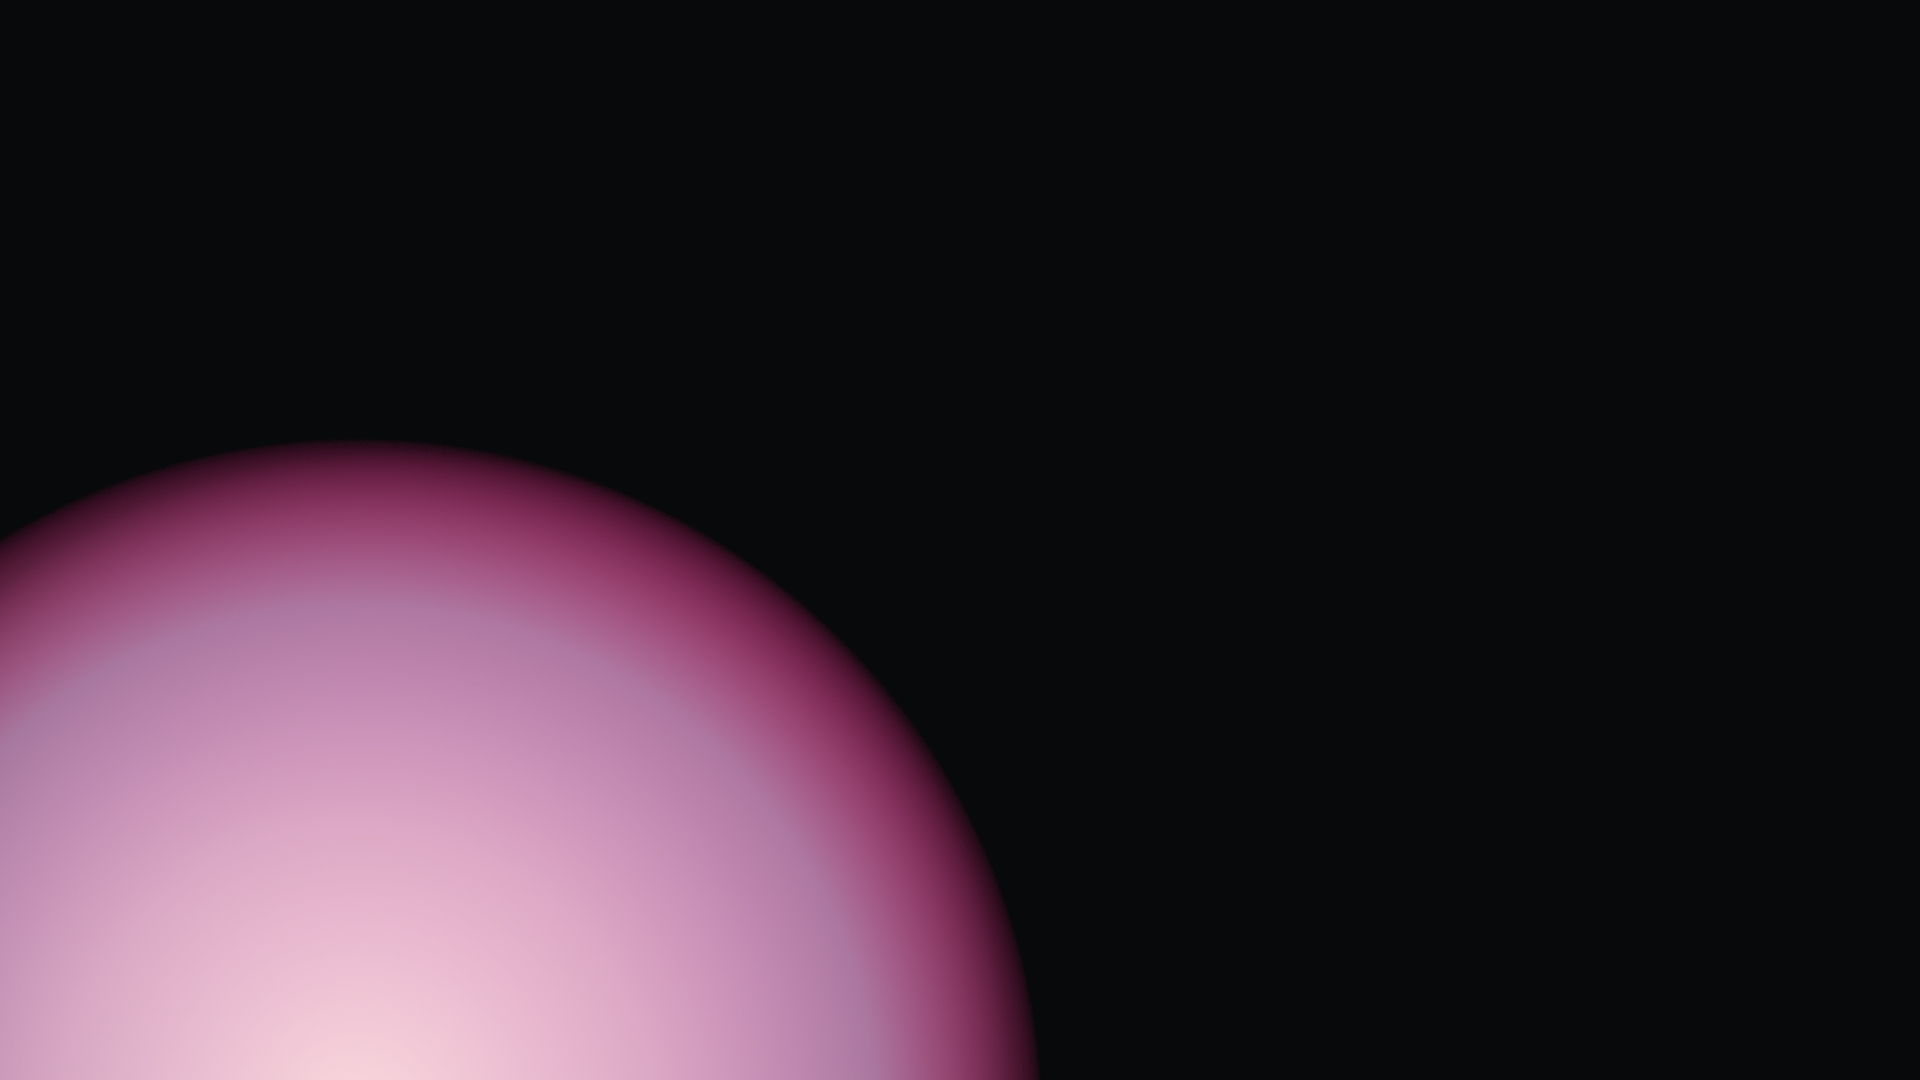
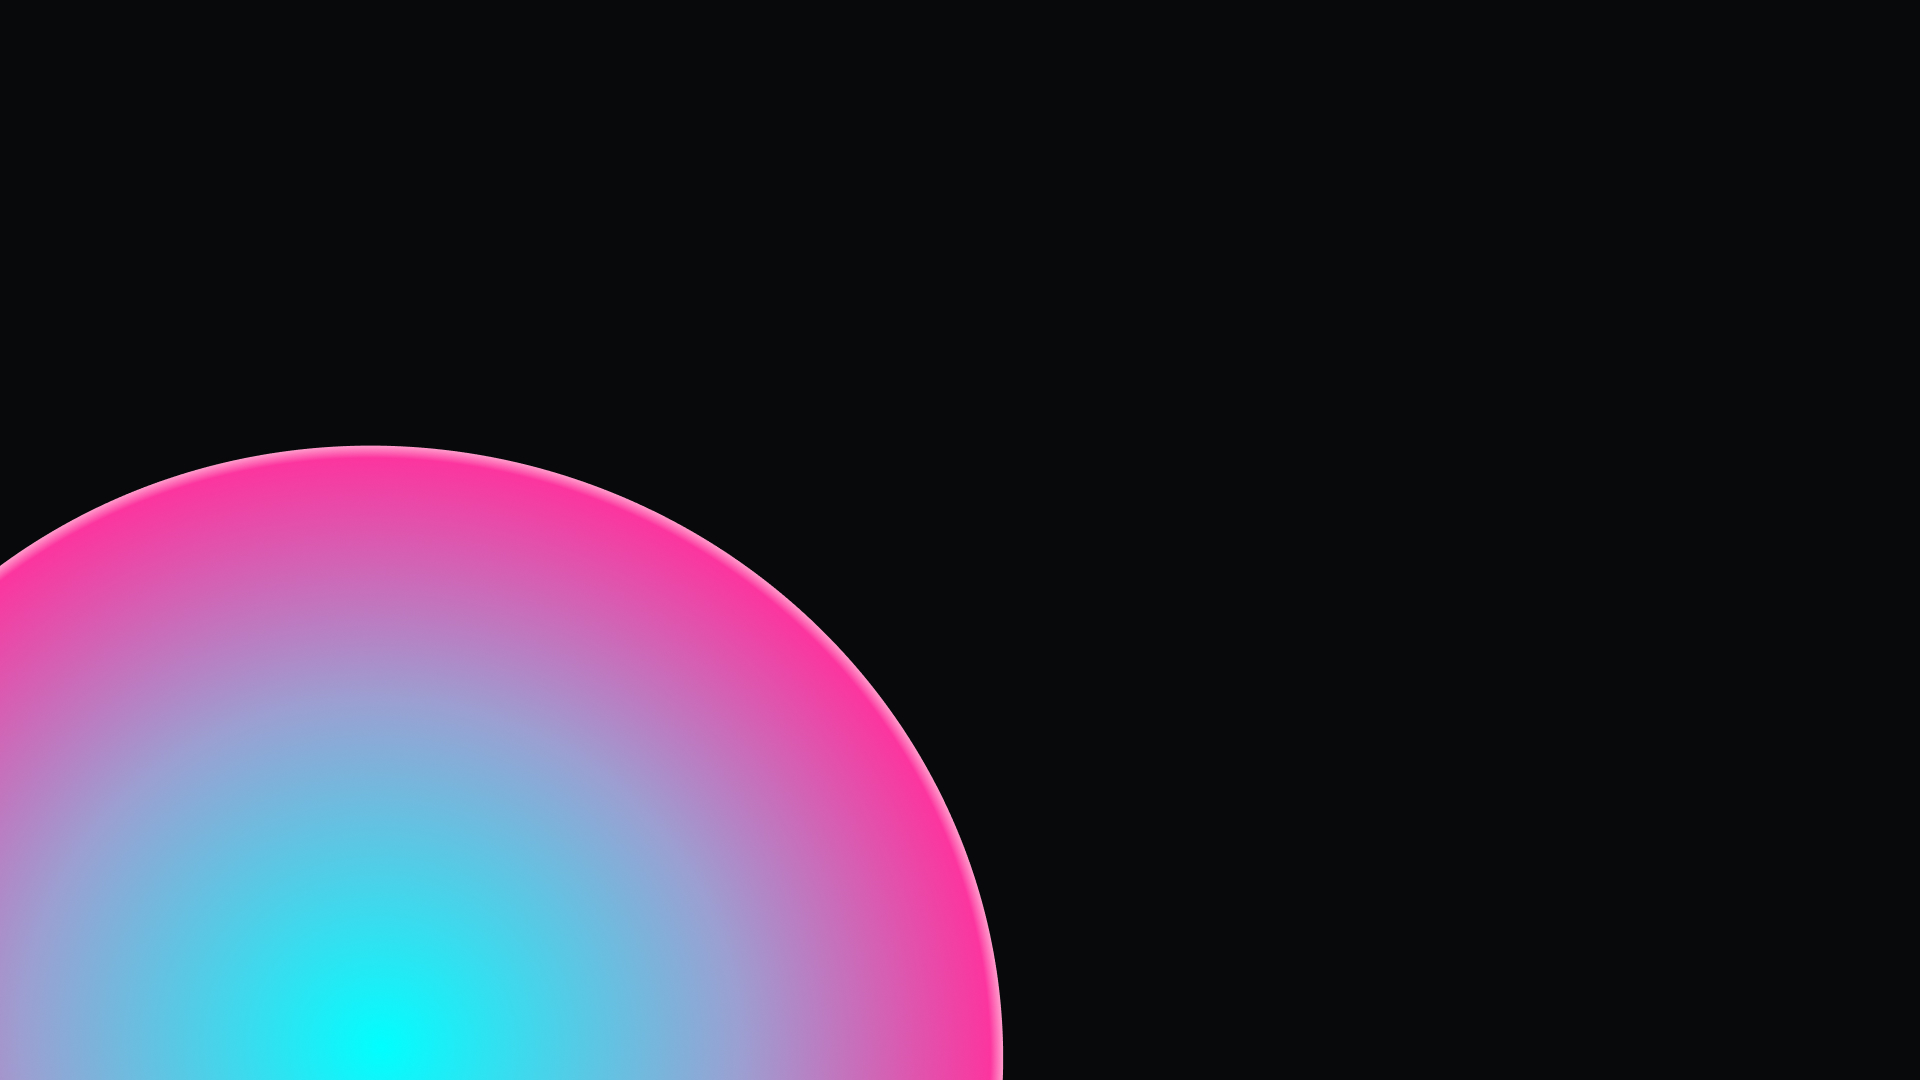
refactor requests.js

Changed region(s): [[0.0, 0.3972, 0.5625, 1.0]]

diff --git a/src/scripts/requests.js b/src/scripts/requests.js
@@ -1,26 +1,26 @@
 import { broadcastError } from '@/ErrorHandler';
 import axios from 'axios';
-export const login = async ({ email, password }) => {
-    try {
-        const response = await axios.post('/api/v1/auth/login', {
-            email, password
-        });
-        (response);
-        return response;
-    } catch (error) {
-        broadcastError(error);
+const api = axios.create();
+api.interceptors.response.use(
+    (response) => response,
+    (error) => {
+        if (!error?.config?.isSilent)
+            broadcastError({ message: error?.response?.data?.message });
     }
+
+);
+export const login = async ({ email, password }) => {
+    const response = await api.post('/api/v1/auth/login', {
+        email, password
+    });
+    return response;
 }
 export const deleteAccountAndData = async (password) => {
-    try {
-        const response = await axios.post('/api/v1/account/delete-account', {
-            password
-        });
-        (response);
-        return response;
-    } catch (error) {
-        console.log(error);
-    }
+    const response = await api.post('/api/v1/account/delete-account', {
+        password
+    });
+    (response);
+    return response;
 }
 export const getUserInfo = async () => {
     const { fullname, createdAt, email, highestLogInStreak, currentLogInStreak, lastLogIn } = await getUser();
@@ -38,155 +38,97 @@ export const getUserInfo = async () => {
 }
 
 const getUser = async () => {
-    try {
-        const response = await axios.get('/api/v1/auth/showMe');
-        if (response && response.status == 200) return response.data;
-        throw new Error('Failed to GET user');
-    } catch (error) {
-        console.log(error)
-    }
+    const response = await api.get('/api/v1/auth/showMe');
+    return response.data;
 }
 
 export const getTasks = async () => {
-    try {
-        const response = await axios.get('/api/v1/tasks');
-        if (response && response.status == 200) return response.data;
-        throw new Error('Failed to GET tasks');
-    } catch (error) {
-        console.log(error)
-    }
+    const response = await api.get('/api/v1/tasks');
+    return response.data;
 }
 export const getSettings = async () => {
-    try {
-        const response = await axios.get('/api/v1/account/settings');
-        if (response && response.status == 200) return response.data;
-        throw new Error('Failed to GET settings');
-    } catch (error) {
-        console.log(error)
-    }
+    const response = await api.get('/api/v1/account/settings');
+    return response.data;
 }
 export const getTags = async () => {
-    try {
-        const response = await axios.get('/api/v1/tags');
-        if (response && response.status == 200) return response.data;
-        throw new Error('Failed to GET tags');
-    } catch (error) {
-        console.log(error)
-    }
+    const response = await api.get('/api/v1/tags');
+    return response.data;
 }
 export const getPFP = async () => {
-    try {
-        const response = await axios.get('/api/v1/account/pfp');
-        if (response && response.status == 200) return response.data;
-    } catch (error) {
-        console.log(error)
-    }
+    const response = await api.get('/api/v1/account/pfp');
+    return response.data;
 }
 export const setPFP = async (formData) => {
-    try {
-        const response = await axios.post('/api/v1/account/pfp', formData);
-        if (response && response.status == 200) return response.data;
-    } catch (error) {
-        console.log(error)
-    }
+    const response = await api.post('/api/v1/account/pfp', formData);
+    return response.data;
 }
 export const updateName = async (newName) => {
-    try {
-        const response = await axios.patch('/api/v1/account/name', { name: newName });
-        if (response && response.status == 200) return response.data;
-    } catch (error) {
-        console.log(error)
-    }
+    const response = await api.patch('/api/v1/account/name', { name: newName });
+    return response.data;
 }
 export const setLanguage = async (language) => {
-    try {
-        const response = await axios.patch('/api/v1/account/settings', { language });
-        if (response && response.status == 200) return response.data;
-    } catch (error) {
-        console.log(error)
-    }
+    const response = await api.patch('/api/v1/account/settings', { language });
+    return response.data;
 }
 export const setThemeSetting = async ({ base, lightAccentColor, lightSecondaryColor, darkAccentColor, darkSecondaryColor }) => {
-    try {
-        const response = await axios.patch('/api/v1/account/settings', { theme: { base, lightAccentColor, lightSecondaryColor, darkAccentColor, darkSecondaryColor } });
-        if (response && response.status == 200) return response.data;
-    } catch (error) {
-        console.log(error)
-    }
+    const response = await api.patch('/api/v1/account/settings', { theme: { base, lightAccentColor, lightSecondaryColor, darkAccentColor, darkSecondaryColor } });
+    if (response && response.status == 200) return response.data;
 }
 
 export const isLogged = async () => {
-    try {
-        const response = await axios.get('/api/v1/auth/showMe');
-        if (response && response.status == 200) return true;
-        else return false;
-    } catch (error) {
-    }
+    const response = await api.get('/api/v1/auth/showMe', { isSilent: true });
+    if (response && response.status == 200) return true;
+    else return false;
 }
 
 export const getInbox = async () => {
-    try {
-        const response = await axios.get('/api/v1/account/inbox');
-        if (response && response.status == 200) return response.data;
-        throw new Error('Failed to GET inbox');
-    } catch (error) {
-        console.log(error)
-    }
+    const response = await api.get('/api/v1/account/inbox');
+    return response.data;
 }
 
 export const resendVerificationEmail = async (email) => {
-    try {
-        const response = await axios.post(`/api/v1/auth/resend-verification-email`, { email });
-        if (response && response.status == 200) return response.data;
-        throw new Error('Failed to update Message');
-    } catch (error) {
-        console.log(error)
-    }
+    const response = await api.post(`/api/v1/auth/resend-verification-email`, { email });
+    return response.data;
 }
 export const signUp = (newUser) => {
-    return axios.post('/api/v1/auth/register', newUser)
+    return api.post('/api/v1/auth/register', newUser)
 }
 export const verifyEmail = (email, code) => {
-    return axios.post('/api/v1/auth/verify-email', { email, code })
+    return api.post('/api/v1/auth/verify-email', { email, code })
 }
 export const forgotPassword = (email) => {
-    return axios.post('/api/v1/auth/forgot-password', { email })
+    return api.post('/api/v1/auth/forgot-password', { email })
 }
 export const resetPassword = (email, resetToken, newPassword) => {
-    return axios.post('/api/v1/auth/reset-password', { email, resetToken, newPassword })
+    return api.post('/api/v1/auth/reset-password', { email, resetToken, newPassword })
 }
-export const logOut = () => axios.post('/api/v1/auth/logout');
+export const logOut = () => api.post('/api/v1/auth/logout');
 
 export const createTask = async (newTask) => {
-    const createdTask = await axios.put('/api/v1/tasks/create-task', newTask);
+    const createdTask = await api.put('/api/v1/tasks/create-task', newTask);
     return createdTask;
 }
 export const readMessage = async ({ messageId, from }) => {
-    try {
-        const response = await axios.patch(`/api/v1/account/inbox/read/${messageId}`, { from });
-        if (response && response.status == 200) return response.data;
-        throw new Error('Failed to update Message');
-    } catch (error) {
-        console.log(error)
-    }
+    const response = await api.patch(`/api/v1/account/inbox/read/${messageId}`, { from });
+    return response.data;
 }
 export const patchTask = async (taskToEdit) => {
-    const editedTask = await axios.patch(`/api/v1/tasks/${taskToEdit.id}`, taskToEdit);
+    const editedTask = await api.patch(`/api/v1/tasks/${taskToEdit.id}`, taskToEdit);
     return editedTask;
 }
 export const createTag = async (newTag) => {
-    const createdTag = await axios.put('/api/v1/tags/create-tag', newTag);
+    const createdTag = await api.put('/api/v1/tags/create-tag', newTag);
     return createdTag;
 }
 export const patchTag = async (tagToEdit) => {
-    const editedTag = await axios.patch(`/api/v1/tags/${tagToEdit.id}`, tagToEdit);
+    const editedTag = await api.patch(`/api/v1/tags/${tagToEdit.id}`, tagToEdit);
     return editedTag;
 
 }
 export const eraseTag = (tagToDelete) => {
-    return axios.delete(`/api/v1/tags/${tagToDelete.id}`);
+    return api.delete(`/api/v1/tags/${tagToDelete.id}`);
 }
 export const eraseTask = (taskToDelete) => {
-    return axios.delete(`/api/v1/tasks/${taskToDelete.id}`);
+    return api.delete(`/api/v1/tasks/${taskToDelete.id}`);
 }
 

diff --git a/src/Pages/auth/SignInPage.jsx b/src/Pages/auth/SignInPage.jsx
@@ -89,7 +89,6 @@ export default function SignInPage({ children }) {
                 {/* <Link to="/app/home">
                     <GuestModeButton customTheme={`auth${theme}`} customIcon={w >= 768 && "dark"} className="mt-[0.5rem] mb-[.1rem]" />
                 </Link> */}
-                {isSuccesful == false && <ErrorMessage className={'ps-[0.1rem]'}>{t("errors.invalidEmailPassword")}</ErrorMessage>}
                 <Link to={`/auth/forgot-password?email=${userInfo.email}`} href={null} className="text-[0.8rem] opacity-50 ">{t("titles.forgotPassword")}</Link>
                 <p className="text-[0.8rem] opacity-70 text-center mt-[0.75rem]">{t("terms.dontHaveAnAccount")} <ThemedAnchor to="/auth/sign-up">{t("titles.signUp")}</ThemedAnchor></p>
                 {children}

diff --git a/src/components/ui/messages/PopUp.jsx b/src/components/ui/messages/PopUp.jsx
@@ -7,12 +7,12 @@ export default function PopUp({ error, onClose }) {
     const [visible, setVisible] = useState(true);
     useEffect(() => {
         setVisible(true);
-        const timerId = setTimeout(handleClose, 5000);
+        const timerId = setTimeout(handleClose, 2000);
         return () => { clearTimeout(timerId) }
     }, [error]);
     const handleClose = () => {
         setVisible(false);
-        setTimeout(onClose, 1000)
+        setTimeout(onClose, 200)
     }
 
     return (

diff --git a/src/ErrorHandler.jsx b/src/ErrorHandler.jsx
@@ -22,7 +22,6 @@ export default function ErrorHandler({ className = "", children, ...props }) {
     useEffect(() => {
         return subscribeToErrors(pushError);
     }, []);
-    console.log(errors);
     return (
         <div>
             {errors.length > 0 && createPortal(<PopUp error={errors[0]} onClose={popError} />, document.querySelector('body'))}
